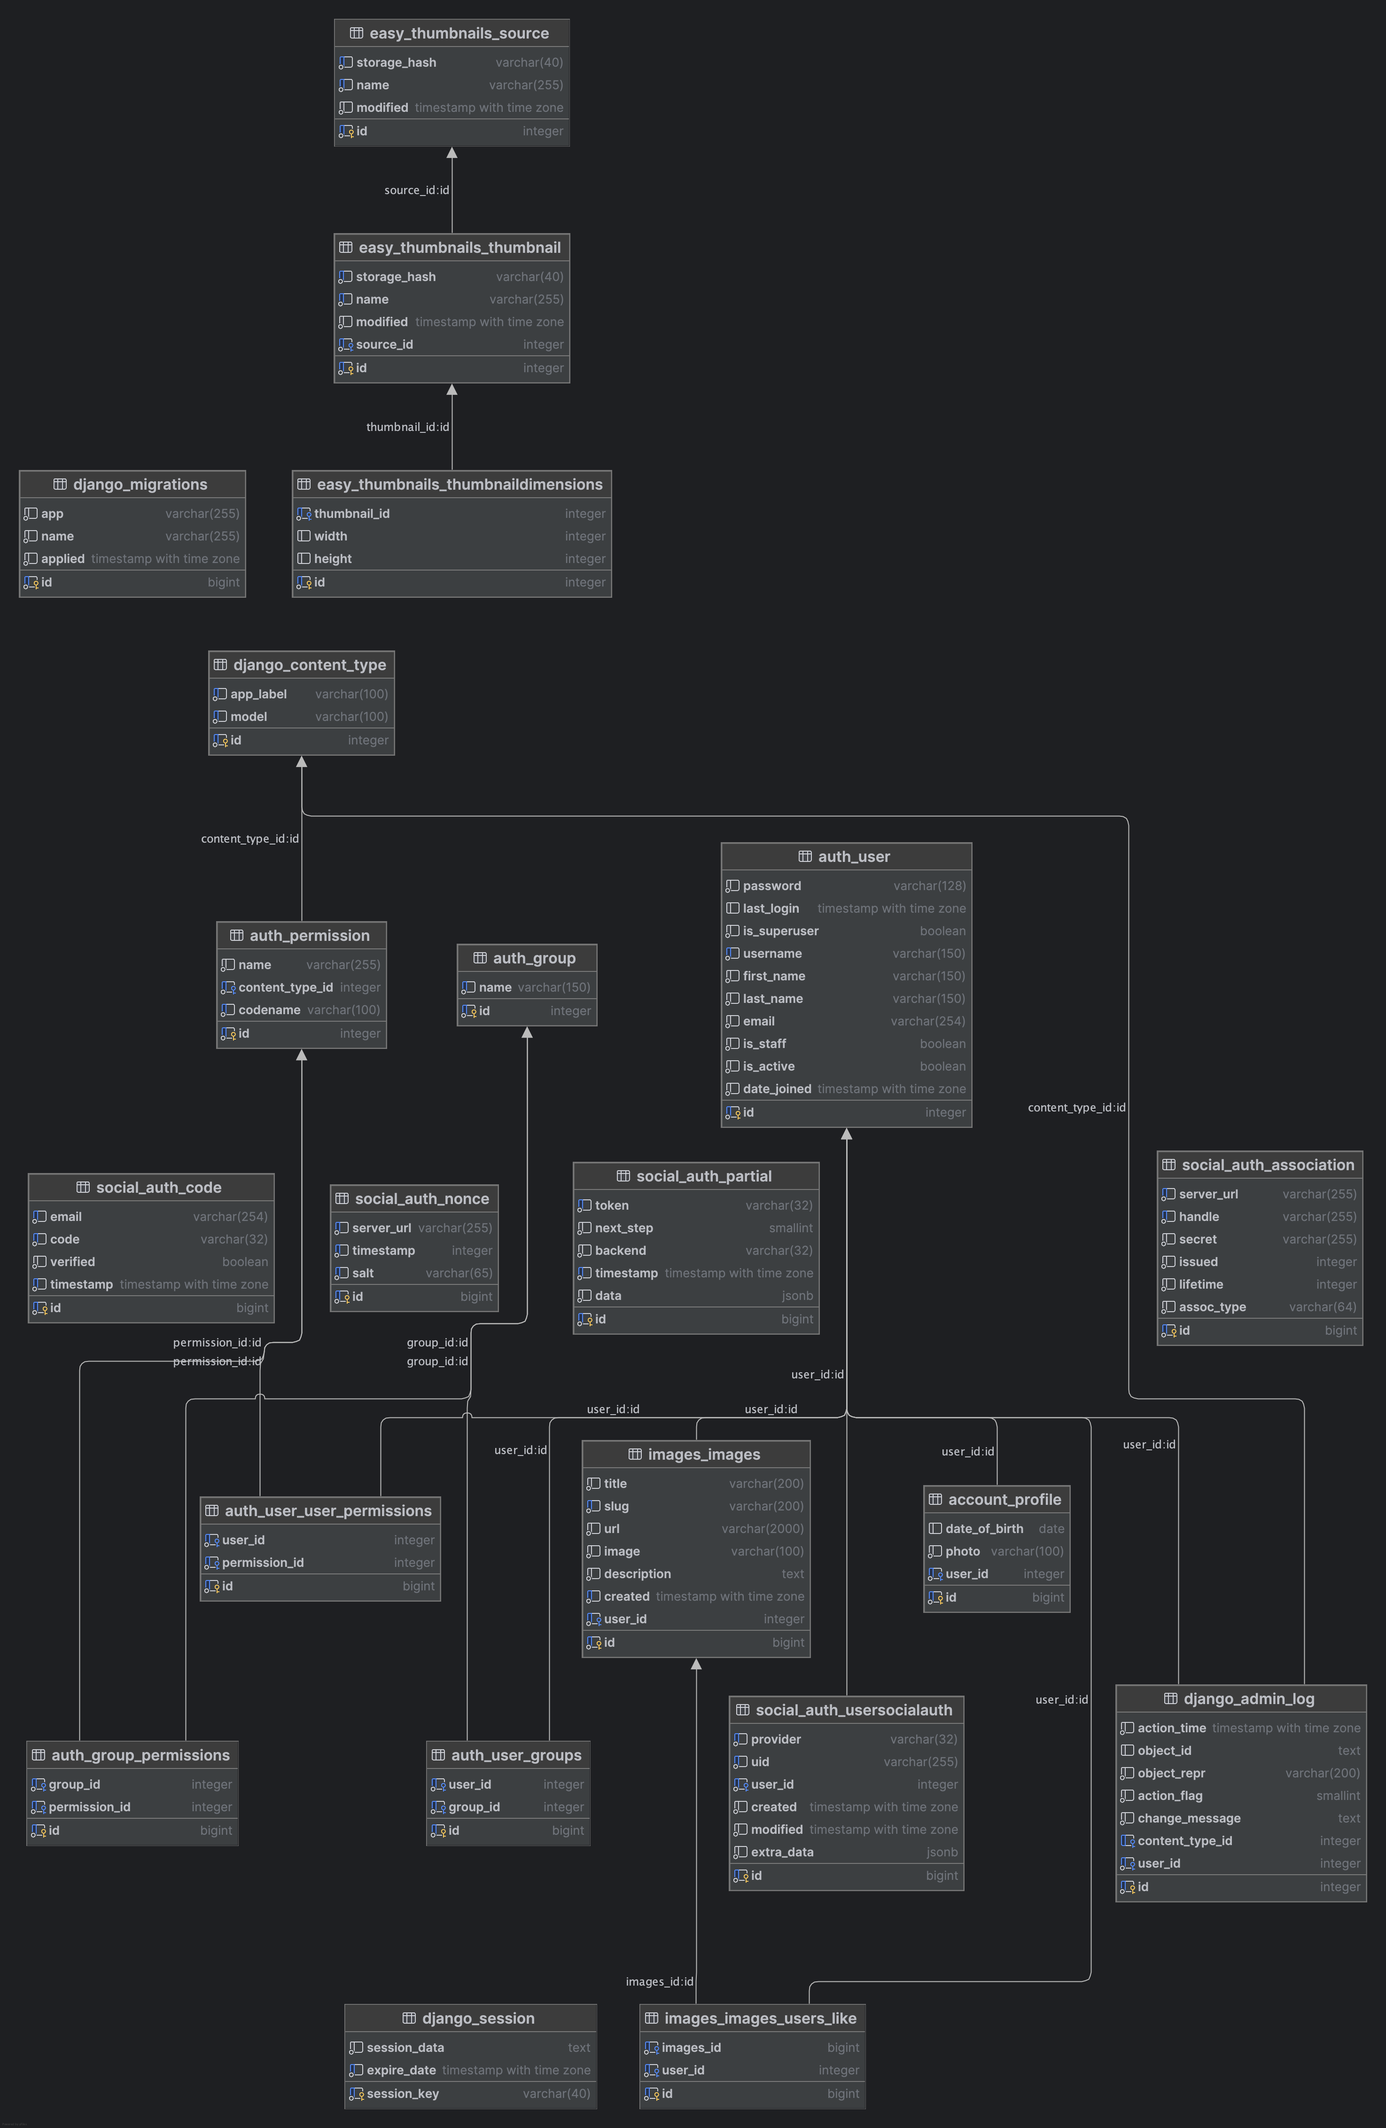
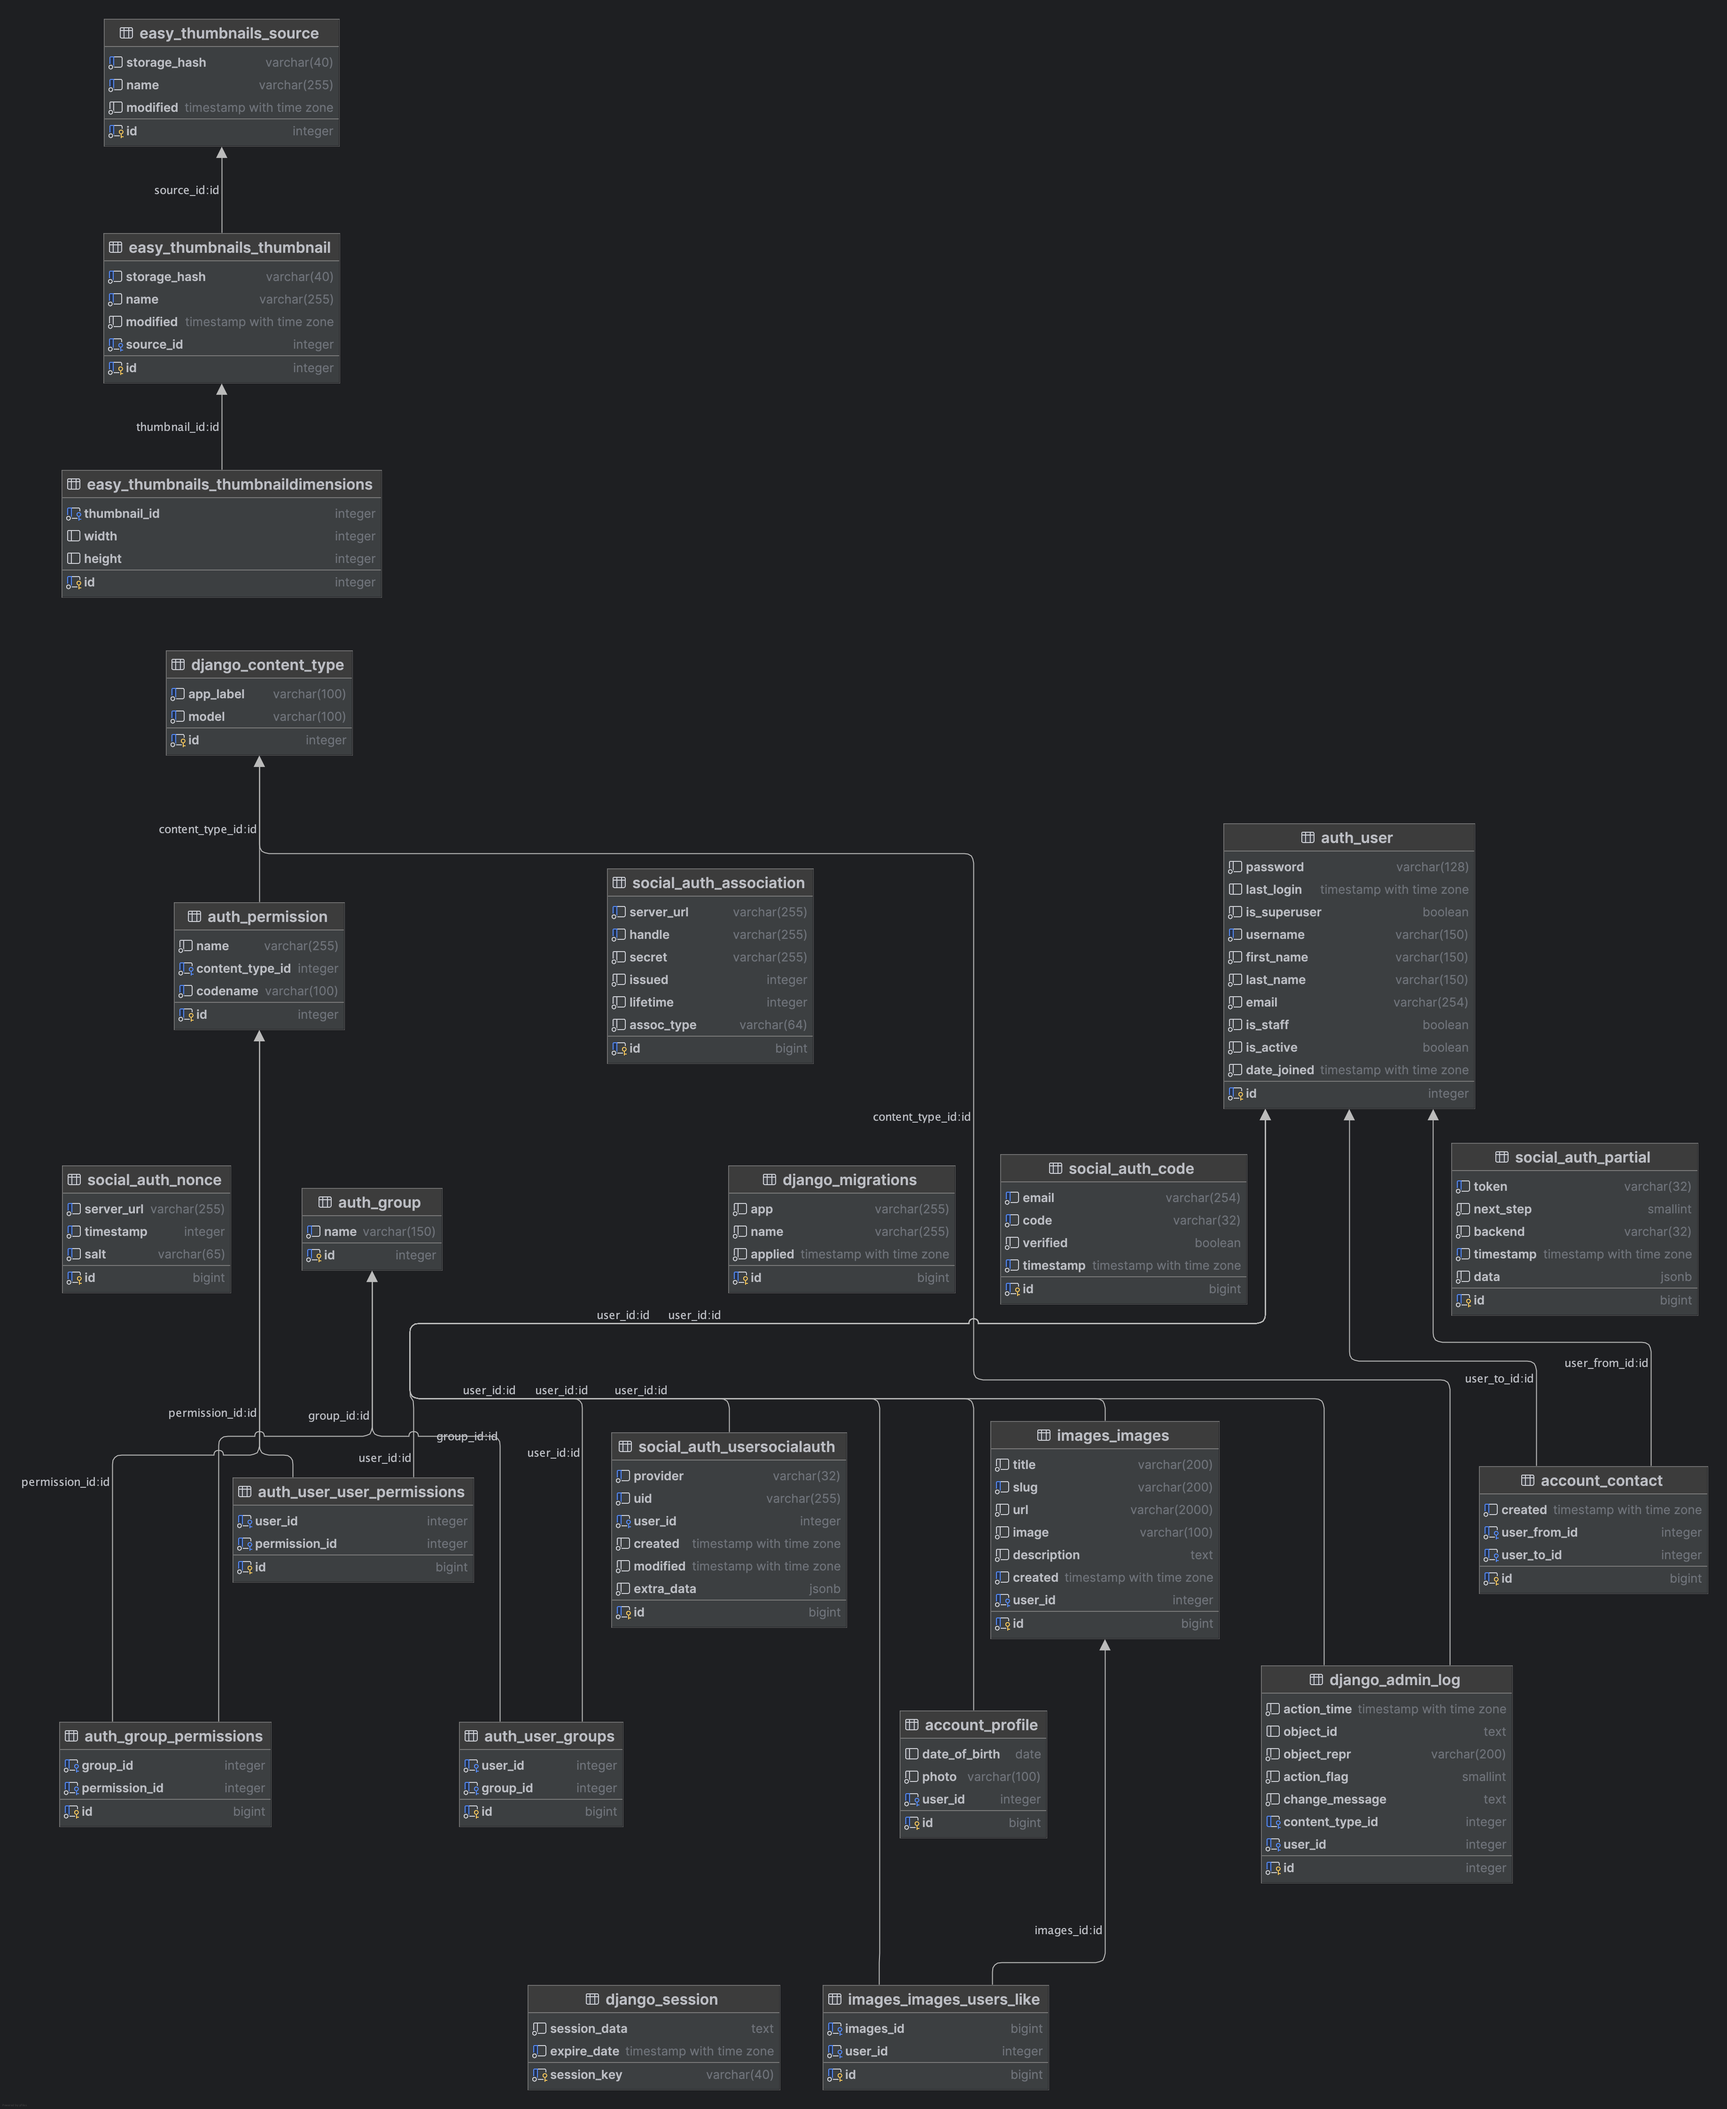
mass-refactoring and add new views in account/views

diff --git a/bookmarks/account/templates/account/user/detail.html b/bookmarks/account/templates/account/user/detail.html
@@ -30,3 +30,44 @@
     </div>
     {% endwith %}
 {% endblock %}
+
+{% block domready %}
+  const url = '{% url "account:user_follow" %}';
+  var options = {
+    method: 'POST',
+    headers: {'X-CSRFToken': csrftoken},
+    mode: 'same-origin'
+  }
+
+  document.querySelector('a.follow')
+          .addEventListener('click', function(e){
+    e.preventDefault();
+    var followButton = this;
+
+    // add request body
+    var formData = new FormData();
+    formData.append('id', followButton.dataset.id);
+    formData.append('action', followButton.dataset.action);
+    options['body'] = formData;
+
+    // send HTTP request
+    fetch(url, options)
+    .then(response => response.json())
+    .then(data => {
+      if (data['status'] === 'ok')
+      {
+        var previousAction = followButton.dataset.action;
+
+        // toggle button text and data-action
+        var action = previousAction === 'follow' ? 'unfollow' : 'follow';
+        followButton.dataset.action = action;
+        followButton.innerHTML = action;
+
+        // update follower count
+        var followerCount = document.querySelector('span.count .total');
+        var totalFollowers = parseInt(followerCount.innerHTML);
+        followerCount.innerHTML = previousAction === 'follow' ? totalFollowers + 1 : totalFollowers - 1;
+      }
+    })
+  });
+{% endblock %}

diff --git a/bookmarks/account/views.py b/bookmarks/account/views.py
@@ -5,10 +5,18 @@ from django.contrib.auth import authenticate, login
 from django.contrib.auth import views as auth_views
 from django.contrib.auth.mixins import LoginRequiredMixin
 from django.contrib.auth.models import User
-from django.http import HttpResponse
+from django.db.models import QuerySet
+from django.http import HttpRequest, HttpResponse, JsonResponse
 import django.shortcuts
+from django.template.response import TemplateResponse
 from django.urls import reverse_lazy
-from django.views.generic import DetailView, FormView, ListView, TemplateView
+from django.views.generic import (
+    DetailView,
+    FormView,
+    ListView,
+    TemplateView,
+    View,
+)
 
 import account.forms
 import account.models
@@ -18,7 +26,7 @@ class UserLoginView(FormView):
     template_name = "account/login.html"
     form_class = account.forms.LoginForm
 
-    def form_valid(self, form) -> HttpResponse:
+    def form_valid(self, form: account.forms.LoginForm) -> HttpResponse:
         cd = form.cleaned_data
         user = authenticate(
             username=cd["username"],
@@ -39,7 +47,10 @@ class RegisterView(FormView):
     template_name = "account/register.html"
     form_class = account.forms.UserRegistrationForm
 
-    def form_valid(self, form) -> HttpResponse:
+    def form_valid(
+        self,
+        form: account.forms.UserRegistrationForm,
+    ) -> HttpResponse:
         new_user = form.save(commit=False)
         new_user.set_password(form.cleaned_data["password"])
         new_user.save()
@@ -51,7 +62,7 @@ class RegisterView(FormView):
             {"new_user": new_user},
         )
 
-    def get_context_data(self, **kwargs) -> dict[str, Any]:
+    def get_context_data(self, **kwargs: Any) -> dict[str, Any]:
         context = super().get_context_data(**kwargs)
         context["user_form"] = self.get_form()
         return context
@@ -60,7 +71,7 @@ class RegisterView(FormView):
 class DashboardView(LoginRequiredMixin, TemplateView):
     template_name = "account/dashboard.html"
 
-    def get_context_data(self, **kwargs) -> dict[str, Any]:
+    def get_context_data(self, **kwargs: Any) -> dict[str, Any]:
         context = super().get_context_data(**kwargs)
         context["section"] = "dashboard"
 
@@ -85,14 +96,19 @@ class EditView(LoginRequiredMixin, FormView):
     profile_form_class = account.forms.ProfileEditForm
     success_url = reverse_lazy("account:edit")
 
-    def get_context_data(self, **kwargs):
+    def get_context_data(self, **kwargs: Any) -> dict[str, Any]:
         context = super().get_context_data(**kwargs)
         context["profile_form"] = self.profile_form_class(
             instance=self.request.user.profile,
         )
         return context
 
-    def post(self, request, *args, **kwargs):
+    def post(
+        self,
+        request: HttpRequest,
+        *args: Any,
+        **kwargs: Any,
+    ) -> HttpResponse:
         user_form = self.get_form()
         profile_form = self.profile_form_class(
             data=request.POST,
@@ -109,7 +125,7 @@ class EditView(LoginRequiredMixin, FormView):
             messages.error(request, "Error updating profile")
             return self.form_invalid(user_form)
 
-    def get_form(self, form_class=None):
+    def get_form(self, form_class: Any = None) -> Any:
         if form_class is None:
             form_class = self.get_form_class()
         return form_class(
@@ -117,7 +133,10 @@ class EditView(LoginRequiredMixin, FormView):
             data=self.request.POST or None,
         )
 
-    def form_invalid(self, form):
+    def form_invalid(
+        self,
+        form: account.forms.UserEditForm,
+    ) -> TemplateResponse:
         context = self.get_context_data(form=form)
         context["profile_form"] = self.profile_form_class(
             instance=self.request.user.profile,
@@ -126,16 +145,16 @@ class EditView(LoginRequiredMixin, FormView):
 
 
 class UserListView(LoginRequiredMixin, ListView):
-    model = User  # Указываем модель
+    model = User
     template_name = "account/user/list.html"
 
-    def get_context_data(self, **kwargs) -> dict[str, Any]:
+    def get_context_data(self, **kwargs: Any) -> dict[str, Any]:
         context = super().get_context_data(**kwargs)
         context["section"] = "people"
         context["users"] = self.get_queryset()
         return context
 
-    def get_queryset(self):
+    def get_queryset(self) -> QuerySet[User]:
         return User.objects.filter(is_active=True)
 
 
@@ -143,14 +162,41 @@ class UserDetailView(LoginRequiredMixin, DetailView):
     model = User
     template_name = "account/user/detail.html"
 
-    def get_context_data(self, **kwargs) -> dict[str, Any]:
+    def get_context_data(self, **kwargs: Any) -> dict[str, Any]:
         context = super().get_context_data(**kwargs)
         context["section"] = "people"
 
         return context
 
-    def get_object(self, queryset=None):
+    def get_object(self, queryset: Any = None) -> Any:
         username = self.kwargs.get("username")
         user = User.objects.get(username=username, is_active=True)
 
         return user
+
+
+class UserFollowView(LoginRequiredMixin, View):
+    http_method_names = ["post"]
+
+    def post(
+        self,
+        request: HttpRequest,
+        *args: Any,
+        **kwargs: Any,
+    ) -> JsonResponse:
+        user_id = request.POST.get("id")
+        action = request.POST.get("action")
+        if user_id and action:
+            user = django.shortcuts.get_object_or_404(User, id=user_id)
+            if action == "follow":
+                account.models.Contact.objects.get_or_create(
+                    user_from=request.user,
+                    user_to=user,
+                )
+            else:
+                account.models.Contact.objects.filter(
+                    user_from=request.user,
+                    user_to=user,
+                ).delete()
+            return JsonResponse({"status": "ok"})
+        return JsonResponse({"status": "error"})

diff --git a/bookmarks/account/tests/test_views.py b/bookmarks/account/tests/test_views.py
@@ -1,8 +1,11 @@
 from http import HTTPStatus
 
 from django.contrib.auth.models import User
+import django.shortcuts
 from django.test import TestCase
 from django.urls import reverse
+
+import account.models
 
 
 class TestDashboardView(TestCase):
@@ -147,3 +150,80 @@ class TestRegistrationView(TestCase):
         self.client.post(reverse("account:register"), data)
         user = User.objects.get(username="user1")
         self.assertIsNotNone(user)
+
+
+class TestUserFollowView(TestCase):
+    def setUp(self):
+        self.user1 = User.objects.create_user(
+            username="testuser1",
+            password="password",
+        )
+        self.user2 = User.objects.create_user(
+            username="testuser2",
+            password="password",
+        )
+
+    def test_user_follow_view_valid_follow(self):
+        self.client.login(username="testuser1", password="password")
+
+        response = self.client.post(
+            reverse("account:user_follow"),
+            {"id": self.user2.id, "action": "follow"},
+        )
+
+        self.assertEqual(response.status_code, HTTPStatus.OK)
+        self.assertJSONEqual(response.content, {"status": "ok"})
+
+        self.assertTrue(
+            account.models.Contact.objects.filter(
+                user_from=self.user1,
+                user_to=self.user2,
+            ).exists(),
+        )
+
+    def test_user_follow_view_valid_unfollow(self):
+        account.models.Contact.objects.create(
+            user_from=self.user1,
+            user_to=self.user2,
+        )
+
+        self.client.login(username="testuser1", password="password")
+
+        response = self.client.post(
+            reverse("account:user_follow"),
+            {"id": self.user2.id, "action": "unfollow"},
+        )
+
+        self.assertEqual(response.status_code, HTTPStatus.OK)
+        self.assertJSONEqual(response.content, {"status": "ok"})
+
+        self.assertFalse(
+            account.models.Contact.objects.filter(
+                user_from=self.user1,
+                user_to=self.user2,
+            ).exists(),
+        )
+
+    def test_user_follow_view_invalid_user(self):
+        self.client.login(username="testuser1", password="password")
+
+        response = self.client.post(
+            reverse("account:user_follow"),
+            {"id": 9999, "action": "follow"},
+        )
+
+        self.assertEqual(response.status_code, HTTPStatus.NOT_FOUND)
+
+    def test_user_follow_view_not_logged_in(self):
+        response = self.client.post(
+            reverse("account:user_follow"),
+            {"id": self.user2.id, "action": "follow"},
+        )
+
+        self.assertEqual(response.status_code, HTTPStatus.FOUND)
+        url_redirect = (
+            django.shortcuts.reverse("account:login")
+            + "?next="
+            + django.shortcuts.reverse("account:user_follow")
+        )
+        self.assertRedirects(response, url_redirect)

diff --git a/bookmarks/account/tests/test_urls.py b/bookmarks/account/tests/test_urls.py
@@ -119,3 +119,28 @@ class TestRegistrationUserUrls(TestCase):
 
         user = User.objects.get(username="user1")
         self.assertIsNotNone(user)
+
+
+class TestUserFollowUrls(TestCase):
+    def setUp(self):
+        self.user = User.objects.create_user(
+            username="testuser",
+            email="mail@mail.com",
+            password="password",
+        )
+
+    def test_user_follow_url_login_user_get_method(self):
+        self.client.login(username="testuser", password="password")
+        response = self.client.get(reverse("account:user_follow"))
+
+        self.assertEqual(response.status_code, HTTPStatus.METHOD_NOT_ALLOWED)
+
+    def test_user_follow_url_anonymous_user(self):
+        response = self.client.get(reverse("account:user_follow"))
+        self.assertEqual(response.status_code, HTTPStatus.FOUND)
+        url_redirect = (
+            reverse("account:login")
+            + "?next="
+            + reverse("account:user_follow")
+        )
+        self.assertRedirects(response, url_redirect)

diff --git a/bookmarks/images/forms.py b/bookmarks/images/forms.py
@@ -31,7 +31,12 @@ class ImagesCreateForm(forms.ModelForm):
 
         return url
 
-    def save(self, force_insert=False, force_update=False, commit=True) -> Any:
+    def save(
+        self,
+        force_insert: bool = False,
+        force_update: bool = False,
+        commit: bool = True,
+    ) -> Any:
         image = super().save(commit=False)
         image_url = self.cleaned_data["url"]
         name = slugify(image.title)

diff --git a/bookmarks/account/urls.py b/bookmarks/account/urls.py
@@ -28,6 +28,11 @@ urlpatterns = [
     path("edit/", account.views.EditView.as_view(), name="edit"),
     path("users/", account.views.UserListView.as_view(), name="user_list"),
     path(
+        "users/follow/",
+        account.views.UserFollowView.as_view(),
+        name="user_follow",
+    ),
+    path(
         "users/<username>/",
         account.views.UserDetailView.as_view(),
         name="user_detail",

diff --git a/bookmarks/images/views.py b/bookmarks/images/views.py
@@ -83,7 +83,7 @@ class ImageLikeView(LoginRequiredMixin, View):
 
 
 @login_required
-def image_list(request):
+def image_list(request: HttpRequest) -> HttpResponse:
     images = Images.objects.all()
     paginator = Paginator(images, 8)
     page = request.GET.get("page")
